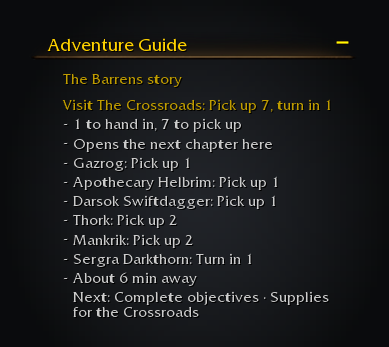
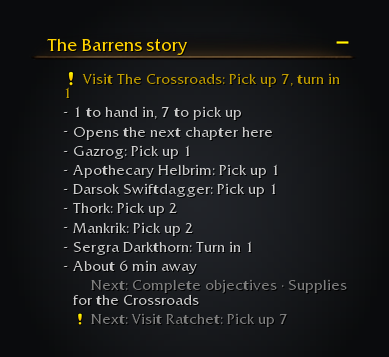
feat: simplify story tracker and preview upcoming actions
Use the chosen journey as the section heading instead of a second story
block. Show native action icons and up to two muted upcoming steps after
the resolved current stop, and omit redundant ready-to-hand-in status.

Preserve current-action interactions and section collapse behavior.

Changed region(s): [[0.1542, 0.2017, 0.8946, 0.9222], [0.0925, 0.0865, 0.9254, 0.1729]]

diff --git a/docs/design.md b/docs/design.md
@@ -29,7 +29,9 @@ abandons quests.
 - **2.3 Chapters.** Show a total only for a proven chain. A quest tooltip may name its proven next chapter with its level.
 - **2.4 Search.** Share eligibility checks with the planner. Explain missing requirements; locked
   quests offer no destination.
-- **2.5 Tracker.** Show the current and next step beside quests. Leave the stock quest order alone.
+- **2.5 Tracker.** Use the chosen journey as the section heading, with Adventure Guide as the fallback.
+  Show the current action and up to two upcoming actions with native action icons beside quests.
+  Upcoming actions are muted and follow the resolved current stop. Leave the stock quest order alone.
   Quest tracking is opt-in; a step's quest opens on the map only outside combat.
 - **2.6 Pins.** Draw only known locations and step aside while Shortest Path supplies guidance. While the player
   stands in the current step's objective area, the world map shows that area's full outline in yellow, the minimap

diff --git a/docs/guide-navigation-design.md b/docs/guide-navigation-design.md
@@ -98,7 +98,8 @@ falls back to Adventure Guide; the icon and tooltip retain the addon's identity.
 Show the current objective with its action icon, then up to two upcoming objectives
 with smaller icons and muted text. Keep the preview in route order and update it
 after progress changes. Hide it when there are no further objectives, and keep the
-current objective readable when space is limited. Keep zone context secondary.
+current objective readable when space is limited. The tracker heading and two-step
+preview are implemented; the wider guide navigation migration below remains planned. Keep zone context secondary.
 Avoid repeating a whole quest title on every line.
 Progress changes update the existing route label rather than restarting it.
 
